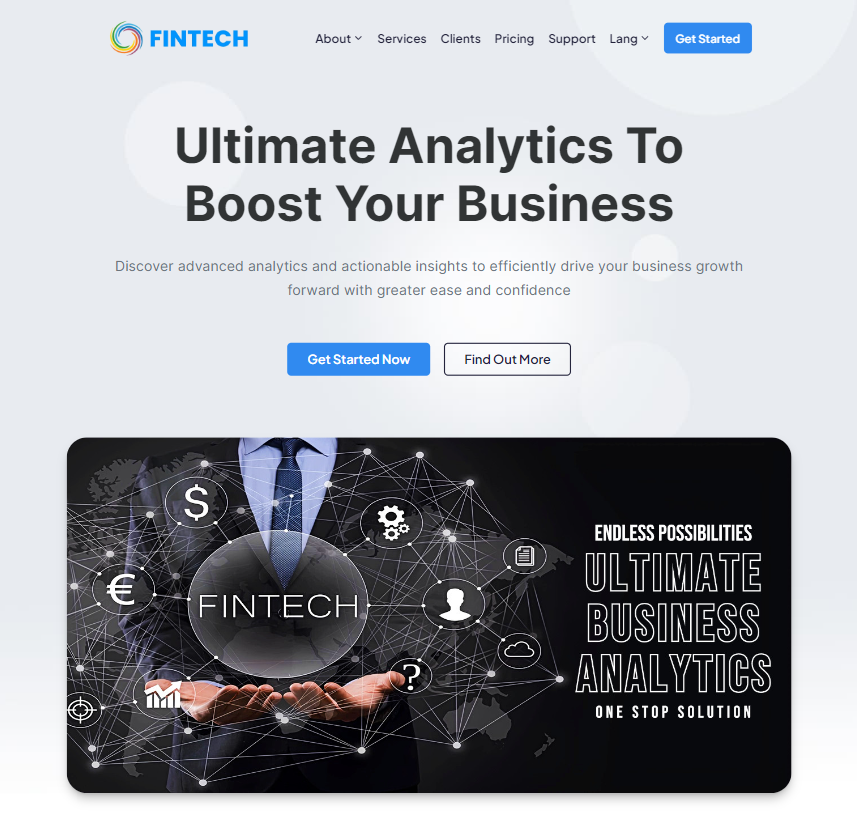
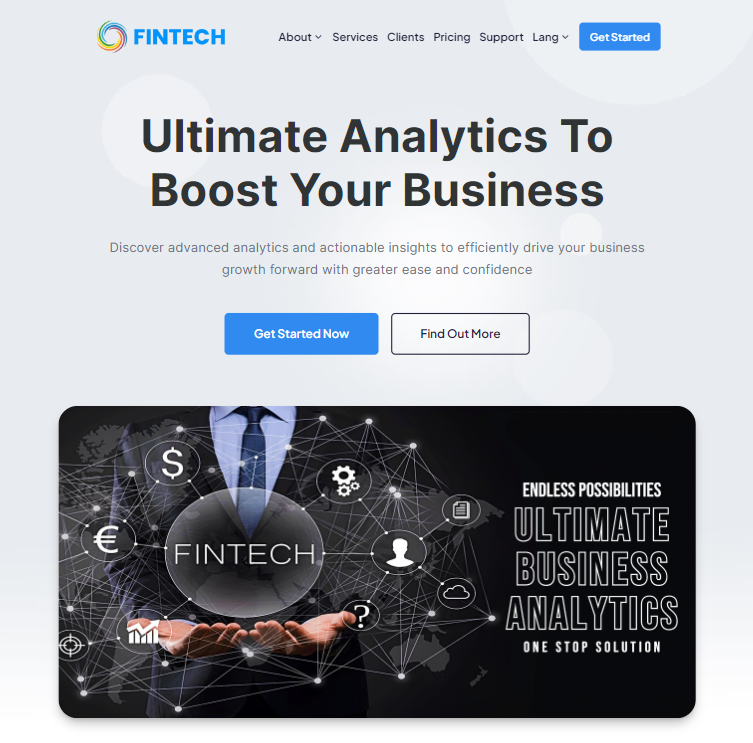
added padding to hero buttons

diff --git a/index.html b/index.html
@@ -150,8 +150,12 @@
             </p>
 
             <div class="hero-buttons">
-              <a href="#" class="btn btn-hero-primary">Get Started Now</a>
-              <a href="#" class="btn btn-hero-secondary">Find Out More</a>
+              <a href="#" class="btn btn-hero-primary hero-padding"
+                >Get Started Now</a
+              >
+              <a href="#" class="btn btn-hero-secondary hero-padding"
+                >Find Out More</a
+              >
             </div>
           </div>
           <div class="hero-image-container">

diff --git a/style.css b/style.css
@@ -228,7 +228,7 @@ nav img {
 }
 
 .hero-buttons {
-  padding: 3rem 0;
+  padding: 2rem 0;
   display: flex;
   gap: 2rem;
 
@@ -267,6 +267,10 @@ nav img {
   color: var(--white);
   background-color: var(--coal);
   border-color: var(--coal);
+}
+
+.hero-padding {
+  padding: 2.2rem 4.4rem;
 }
 
 .hero-image-container {
